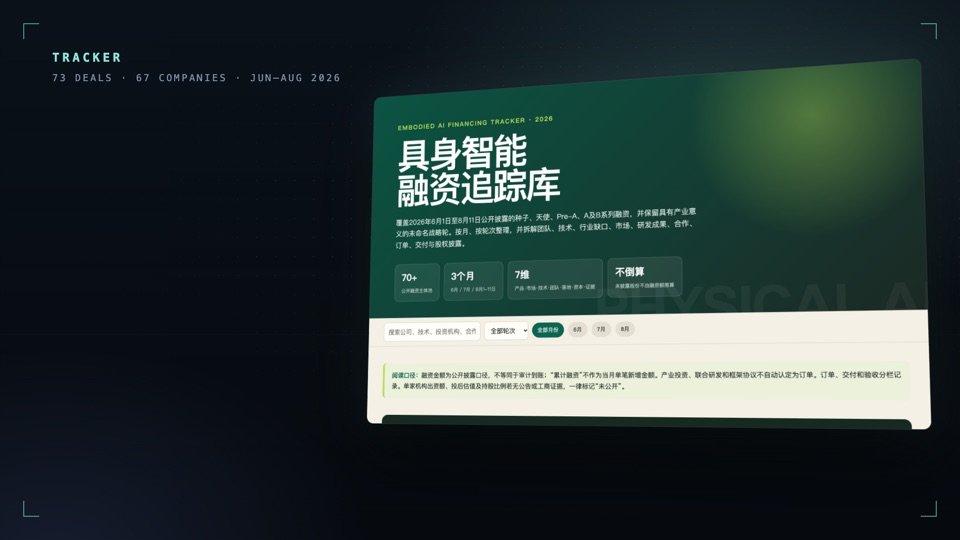
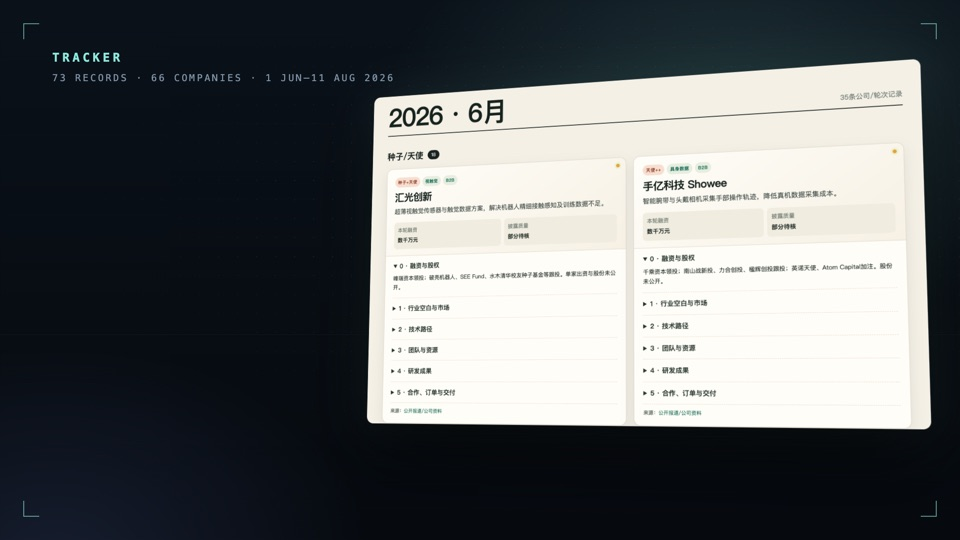
Describe the financing tracker as it is: 73 records, 66 companies, six sections

diff --git a/index.html b/index.html
@@ -253,21 +253,21 @@
           <div class="sec-label label"><span class="dot" aria-hidden="true"></span>04 / <span class="lang-en">Investment research</span><span class="lang-zh">投研作品</span></div>
           <h2 class="sec-title" id="investing-title"><span class="lang-en">From technical judgment to investment judgment</span><span class="lang-zh">从技术判断到投资判断</span></h2>
         </div>
-        <p class="sec-intro"><span class="lang-en">Applying the technical judgment of an AI researcher to top-tier investors' early-stage bets, data infrastructure and portfolio landscape in embodied AI.</span><span class="lang-zh">把 AI 研究中的技术判断，用于分析头部资本对具身智能的早期投资偏好、数据基建与机构布局。</span></p>
+        <p class="sec-intro"><span class="lang-en">Applying an AI researcher's technical judgment to embodied AI investing: a financing tracker, a data engineering spec and a map of leading investors' portfolios.</span><span class="lang-zh">把 AI 研究中的技术判断用于具身智能投研：融资追踪库、数据工程规格与头部机构组合地图。</span></p>
       </div>
       <div class="stats reveal">
         <div class="stat"><span class="label"><span class="dot" aria-hidden="true"></span><span class="lang-en">Source documents</span><span class="lang-zh">份资料</span></span><b data-count="167">167</b></div>
-        <div class="stat"><span class="label"><span class="dot" aria-hidden="true"></span><span class="lang-en">Deals</span><span class="lang-zh">笔交易</span></span><b data-count="73">73</b></div>
+        <div class="stat"><span class="label"><span class="dot" aria-hidden="true"></span><span class="lang-en">Financing records</span><span class="lang-zh">条融资记录</span></span><b data-count="73">73</b></div>
         <div class="stat"><span class="label"><span class="dot" aria-hidden="true"></span><span class="lang-en">Investors</span><span class="lang-zh">家机构</span></span><b data-count="57">57</b></div>
         <div class="stat"><span class="label"><span class="dot" aria-hidden="true"></span><span class="lang-en">Companies</span><span class="lang-zh">家公司</span></span><b data-count="116">116</b></div>
       </div>
       <div class="works">
         <article class="work reveal">
-          <a class="cover" href="research/embodied-financing-tracker-2026.html" target="_blank" rel="noopener" aria-label="Open the financing tracker / 打开融资追踪库"><img src="assets/research/embodied-financing-tracker-2026.jpg" width="960" height="540" loading="lazy" decoding="async" alt="Header of the embodied AI financing tracker, June–August 2026"></a>
+          <a class="cover" href="research/embodied-financing-tracker-2026.html" target="_blank" rel="noopener" aria-label="Open the financing tracker / 打开融资追踪库"><img src="assets/research/embodied-financing-tracker-2026.jpg?v=2" width="960" height="540" loading="lazy" decoding="async" alt="Financing records in the embodied AI financing tracker, 1 June–11 August 2026"></a>
           <div class="film-meta label" style="margin-top:20px"><span class="venue"><span class="lang-en">Tracker</span><span class="lang-zh">追踪库</span></span><span>2026.08</span></div>
           <h4><span class="lang-en">Embodied AI Financing Tracker</span><span class="lang-zh">具身智能融资追踪库</span></h4>
-          <div class="metric label"><span class="lang-en">73 deals · 67 companies · Jun–Aug 2026</span><span class="lang-zh">73 笔融资 · 67 家公司 · 2026 年 6–8 月</span></div>
-          <p><span class="lang-en">Every deal broken down across seven dimensions, with graded disclosure quality; search by company or investor, filter by month and round.</span><span class="lang-zh">逐笔七维拆解并标注披露质量，可按公司、机构检索，按月份与轮次筛选。</span></p>
+          <div class="metric label"><span class="lang-en">73 records · 66 companies · 1 Jun–11 Aug 2026</span><span class="lang-zh">73 条记录 · 66 家公司 · 2026.6.1–8.11</span></div>
+          <p><span class="lang-en">Each record has six sections, from financing and equity to partnerships, orders and delivery, plus a disclosure-quality grade.</span><span class="lang-zh">每条记录分「融资与股权」「行业空白与市场」「技术路径」「团队与资源」「研发成果」「合作、订单与交付」六栏，并标注披露质量。</span></p>
           <div class="film-links"><a class="arrow-link" href="research/embodied-financing-tracker-2026.html" target="_blank" rel="noopener"><span class="lang-en">View ↗</span><span class="lang-zh">查看 ↗</span></a></div>
         </article>
         <article class="work reveal" style="--d:100ms">
